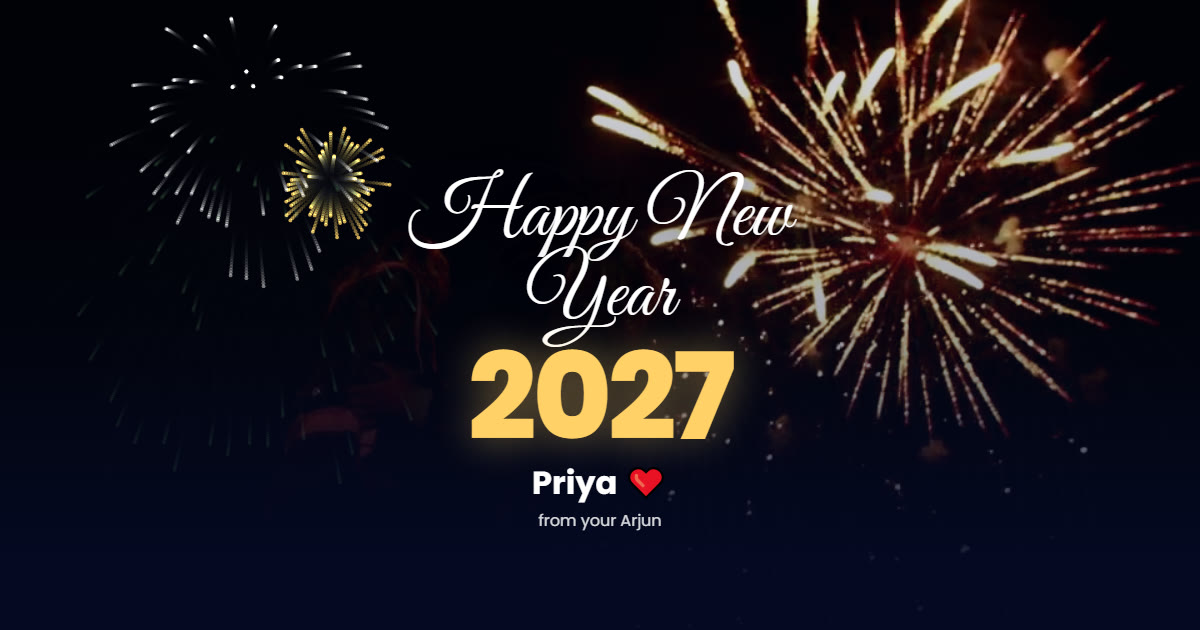
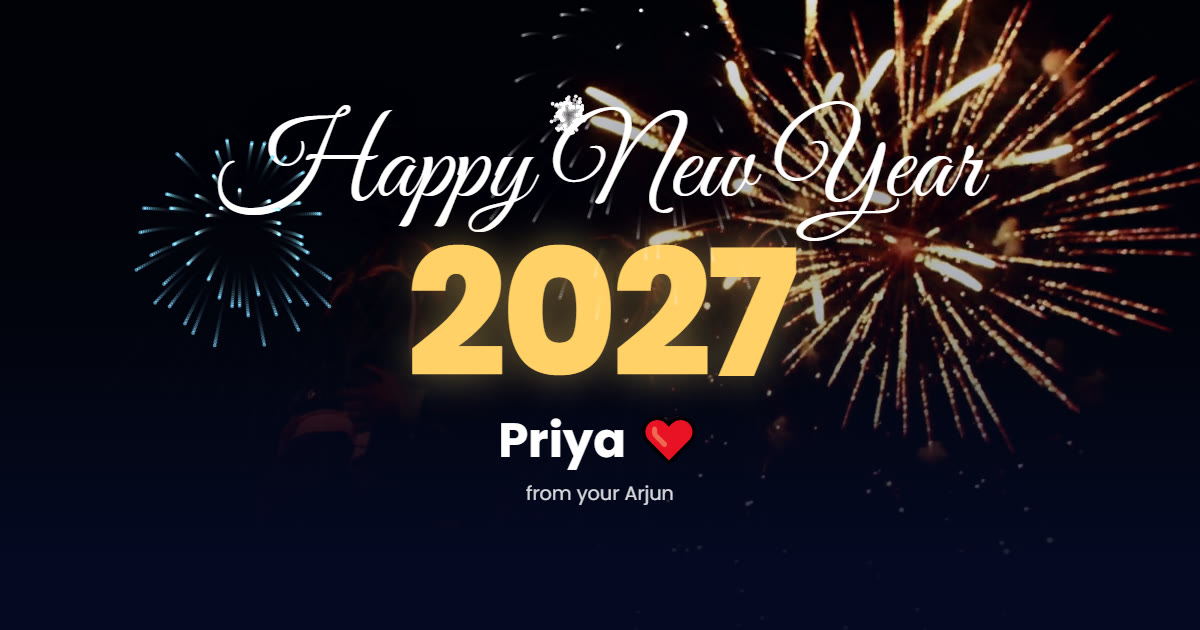
Couple wish with HD photos and a gallery
All 3 demos are now couple wishes: new HD couple photos (Mixkit free
licence) in the memories section, a new 6-photo HD gallery, updated
letters and text, and a fresh share image. Removed the old family
photos.

diff --git a/index.html b/index.html
@@ -200,7 +200,12 @@ section{position:relative;padding:84px 0;overflow:hidden}
   <div class="slider"><figure class="pol"><img src="images/moment-1.webp" alt="Couple silhouette memory" width="640" height="800" loading="lazy"><figcaption>That sunset we never wanted to end 🌅</figcaption></figure><figure class="pol"><img src="images/moment-2.webp" alt="Couple silhouette memory" width="640" height="800" loading="lazy"><figcaption>Our first beach walk 🌊</figcaption></figure><figure class="pol"><img src="images/moment-3.webp" alt="Couple silhouette memory" width="640" height="800" loading="lazy"><figcaption>City lights &amp; you ✨</figcaption></figure><figure class="pol"><img src="images/moment-4.webp" alt="Couple silhouette memory" width="640" height="800" loading="lazy"><figcaption>Dancing in the rain ☔</figcaption></figure></div>
   <p class="swipe">Swipe for more →</p>
 </div></section>
-
+<section id="gallery"><div class="wrap">
+  <h2 class="sec rv">Our gallery 💞</h2>
+  <p class="sub rv">Tap any photo to see it bigger</p>
+  <div class="gallery"><figure class="rv"><img src="images/gallery-1.webp" data-full="images/gallery-1.webp" alt="Joyful couple hugging in the street" width="1600" height="900" loading="lazy"></figure><figure class="rv"><img src="images/gallery-2.webp" data-full="images/gallery-2.webp" alt="Couple in love dancing happily" width="1600" height="900" loading="lazy"></figure><figure class="rv"><img src="images/gallery-3.webp" data-full="images/gallery-3.webp" alt="Couple silhouettes under city lights" width="1600" height="900" loading="lazy"></figure><figure class="rv"><img src="images/gallery-4.webp" data-full="images/gallery-4.webp" alt="Couple watching fireworks together" width="1280" height="720" loading="lazy"></figure><figure class="rv"><img src="images/gallery-5.webp" data-full="images/gallery-5.webp" alt="Couple looking at the city lights" width="1600" height="900" loading="lazy"></figure><figure class="rv"><img src="images/gallery-6.webp" data-full="images/gallery-6.webp" alt="Couple embracing against the city at night" width="900" height="1600" loading="lazy"></figure></div>
+  <p class="credit">Photos: Mixkit (free licence)</p>
+</div></section>
 <section id="letter"><div class="wrap">
   <h2 class="sec rv">For you, my love</h2>
   <p class="sub rv">Read it slowly 💌</p>
